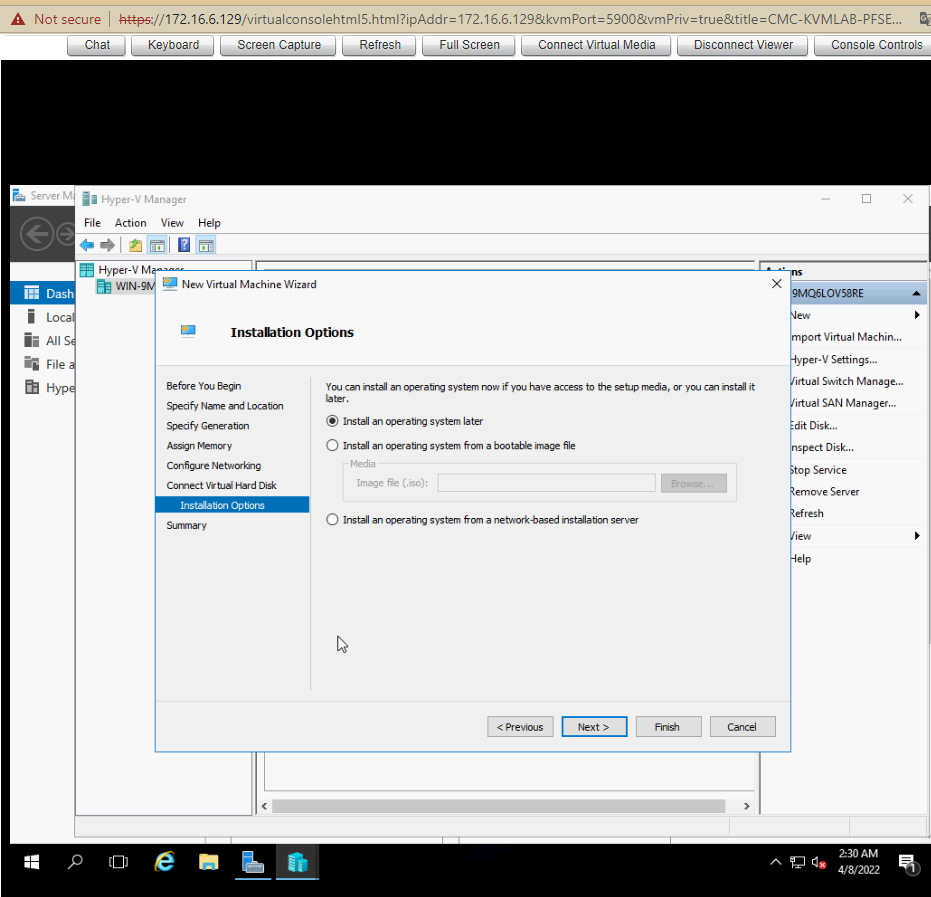
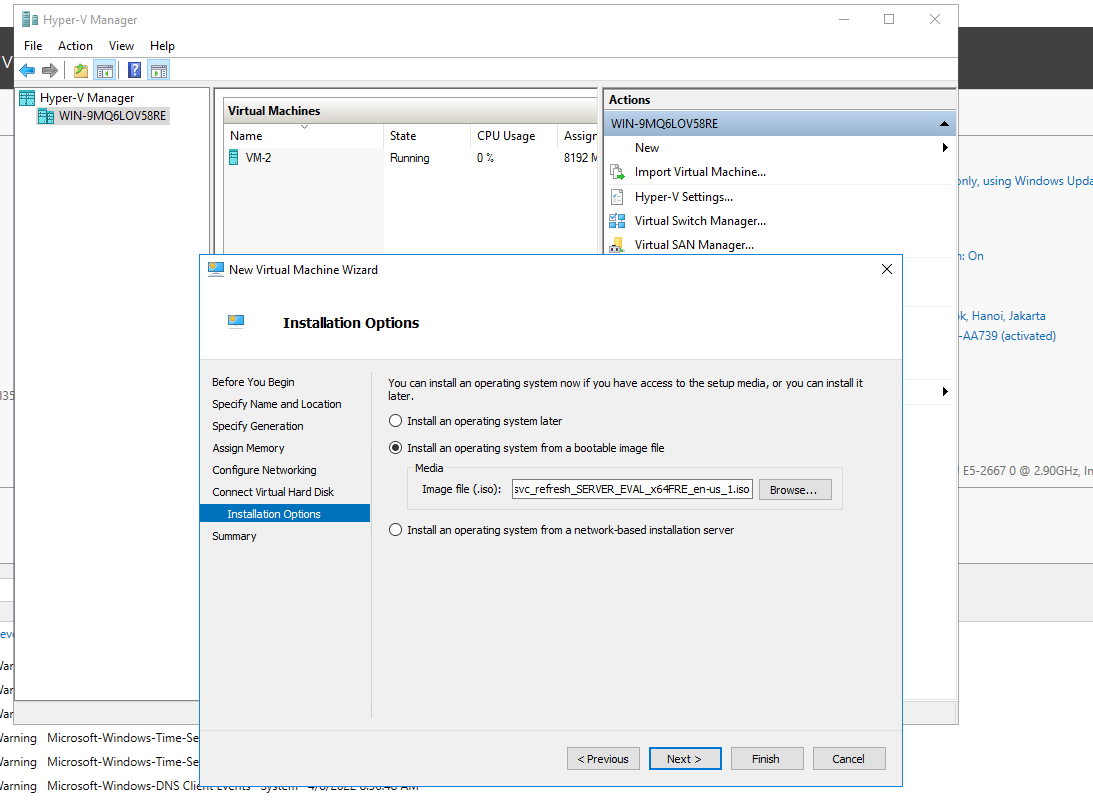
Bao cao thuc tap ngay 09/04/2022

diff --git a/Hyper-V/Hyper-V.md b/Hyper-V/Hyper-V.md
@@ -1,8 +1,20 @@
-# Cài đặt Hyper-V
+# Hyper-V là gì
 
 **Yêu cầu**
 - Cài đặt Hyper-V để tạo 2 VM: mỗi VM cấu hình 8 RAM + 8 core + 200Gb Disk lấy ở Data 500GB, IP 172.16.3.201/20 172.16.3.202/20 Gateway 172.16.10.1
 
+- Hyper-V là công nghệ ảo hóa thể hệ mới của Microsoft, dựa trên nền tảng hypervisor. Mang đến cho người dùng (chủ yếu là doanh nghiệp) một nền tảng ảo hóa mạnh và linh hoạt, có khả năng mở rộng, tính tin cậy và sẵn sàng cao
+
+- Đặc biệt ảo hóa Hyper-V giúp đáp ứng nhu cầu ảo hóa mọi cấp độ cho môi trường doanh nghiệp. Ngoài ra, người dùng không cần phải mua thêm bất cứ phần mềm nào khi muốn nâng cấp hoặc khai thác csac tính năng ảo hóa của server
+
+# Hyper-V mang lại lợi ích gì?
+- Hyper-V cung cấp cơ sở hạ tầng phần mềm và các công cụ quản lý cơ bản mà doanh nghiệp có thể sử dụng để tạo ra và quản lý một môi trường điện toán máy chủ ảo hóa. Một môi trường máy chủ ảo hóa với các tính năng nổi bật sau:
+	+ Ảo hóa linh hoạt
+	+ Nền tảng ảo hóa mạnh
+	+ Tăng cường bảo mật
+	+ Trung tâm dữ liệu động 
+	+ Hợp nhất server
+ 
 # Cài đặt Hyper-V
 - Chạy `Server Manager` và nhấp vào `Add roles and features`
 
@@ -73,7 +85,7 @@
 
 ![](./images/hyperv17.png)
 
-- Chỉ định bộ nhớ cho máy ảo
+- Chỉ định bộ nhớ cho máy ảo (8 GB RAM)
 
 ![](./images/hyperv18.png)
 
@@ -95,7 +107,36 @@
 
 - Máy ảo vừa được tạo. Để bắt đầu, hãy nhấp chuột phải vào nó và chọn `Start`
 
-![](./images/hyperv24.png)
-
 - Để kết nối bảng điều khiển của máy ảo, hãy nhấp chuột phải vào nó và chọn `Connect`
 
+![](./images/hyperv28.png)
+
+- Làm tương tự với VM-2
+
+![](./images/hyperv26.png)
+
+- Cài OS cho máy ảo để tiến hành đặt địa chỉ IP
+
+![](./images/hyperv27.png)
+
+![](./images/hyperv29.png)
+
+![](./images/hyperv31.png)
+
+- Tiến hành đặt địa chỉ IP cho 2 máy ảo 
+
+- VM-1 IP: 172.16.3.201/20 Gateway: 172.16.10.1
+
+![](./images/hyperv32.png)
+
+![](./images/hyperv33.png)
+
+- VM-2 IP: 172.16.3.202/20 Gateway: 172.16.10.1
+
+![](./images/hyperv34.png)
+
+![](./images/hyperv35.png)
+
+- Chỉnh thông số `Number of virtual processors` (8 core)
+
+![](./images/hyperv36.png)
